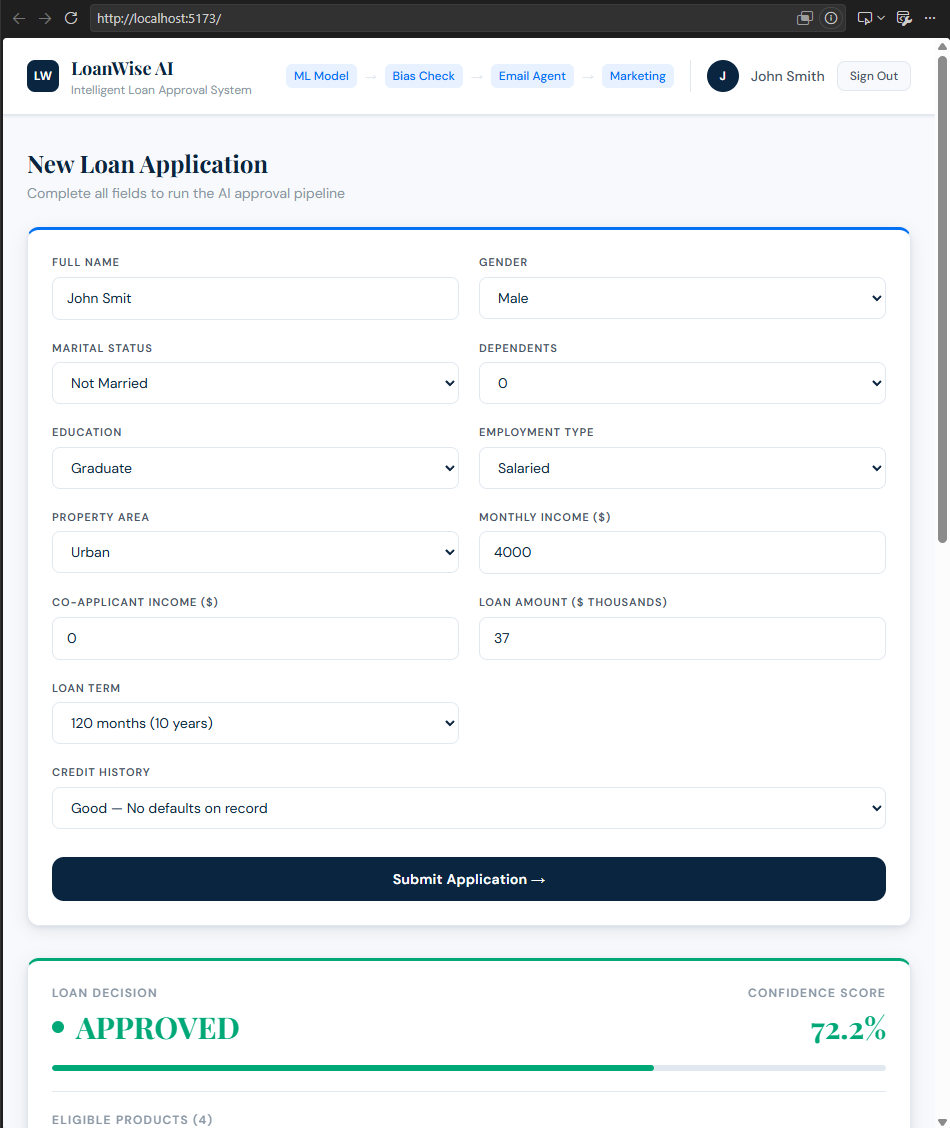
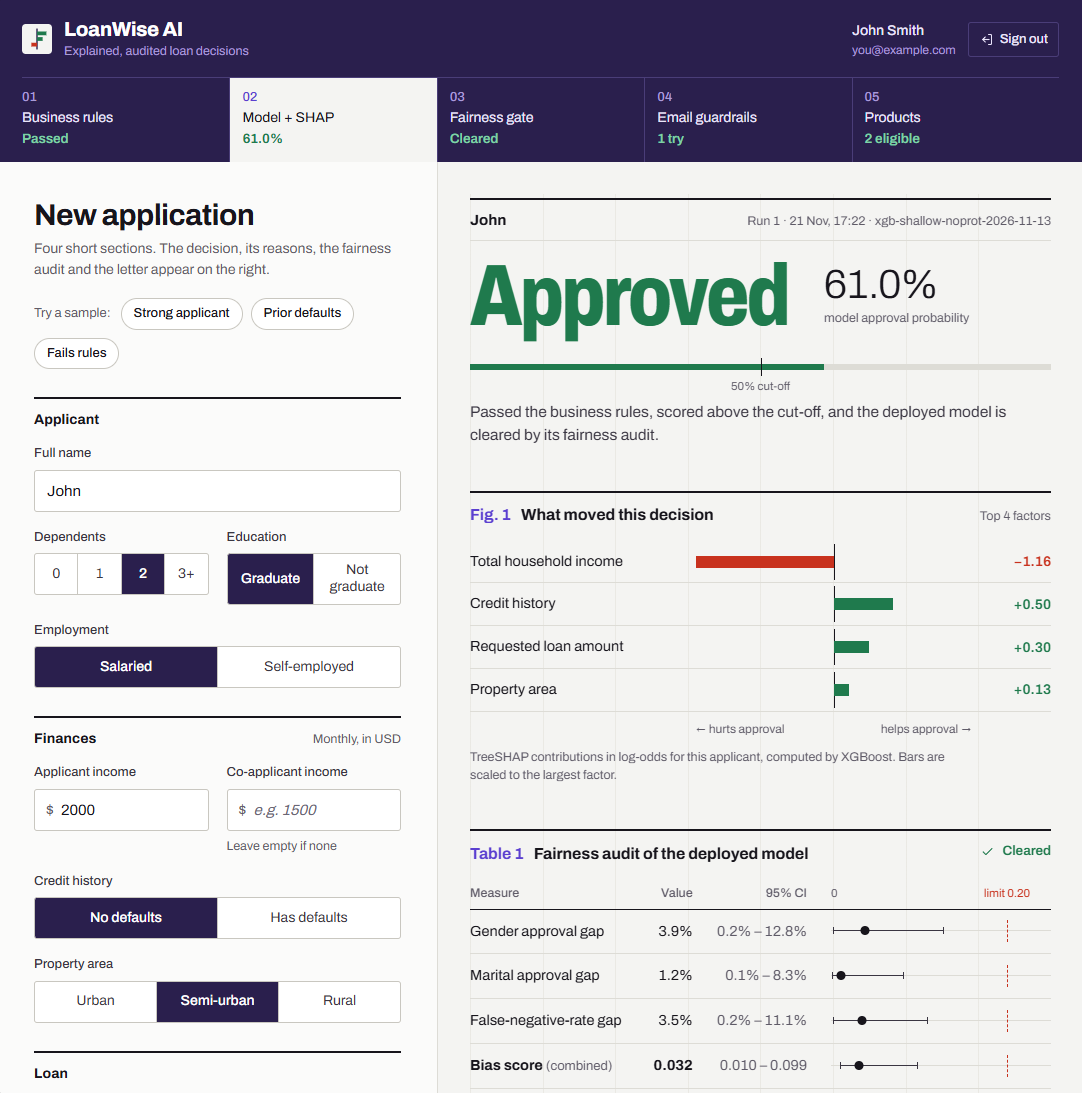
Update README and screenshots for the redesigned UI
Replace the old-UI screenshots with captures of the redesign running
against the live backend, describe the explainable interface, and update
the frontend project structure and roadmap.

diff --git a/README.md b/README.md
@@ -16,9 +16,11 @@
 ## Screenshots
 
 <p align="center">
-  <img src="docs/screenshots/application-and-decision.png" width="48%" alt="Loan application form with the approved decision, confidence score and eligible products" />
-  <img src="docs/screenshots/fairness-and-email.png" width="48%" alt="Fairness analysis report, generated decision email and personalized offers" />
+  <img src="docs/screenshots/application-and-decision.png" width="48%" alt="Pipeline strip with each stage's result, the grouped application form, and an approved verdict with its SHAP factors (Fig. 1) and the fairness audit (Table 1)" />
+  <img src="docs/screenshots/fairness-and-email.png" width="48%" alt="Live repayment-to-income check on the form, group approval rates, and the guardrail-checked decision letter with personalised offers" />
 </p>
+
+The interface presents each decision like a statistical release: the five pipeline stages are numbered and fill in with their results, the verdict leads, and the evidence follows as numbered exhibits (Fig. 1 SHAP factors, Table 1 fairness audit, Doc. 1 decision letter, Table 2 eligible products).
 
 ## Overview
 
@@ -27,6 +29,7 @@ A user signs in, submits a loan application, and the backend runs it through a m
 ## Features
 
 - **Full stack web app**: responsive React 19 + Vite + Tailwind CSS UI with email/password authentication (Supabase Auth, JWT-based sessions).
+- **Explainable interface**: a pipeline rail shows which stage passed, failed or was skipped (and the one that decided the outcome); SHAP factors are drawn as a diverging bar chart; the fairness audit shows each gap with its 95% CI against the limit; rule rejections show which business rule failed. One-click sample applicants, a live repayment-to-income check, and a model card (loaded from `/model`) before the first run. Design records live in [`PRODUCT.md`](PRODUCT.md) and [`DESIGN.md`](DESIGN.md).
 - **Typed REST API**: FastAPI with range-checked Pydantic validation and auto-generated OpenAPI docs at `/docs`.
 - **Secured API**: protected endpoints verify the user's Supabase JWT server-side, CORS is restricted to configured origins, `/predict` is rate-limited per IP, and LLM output is HTML-escaped before it is emailed.
 - **Rigorous model evaluation**: seven candidates, including majority-class and credit-history-rule baselines, compared with repeated stratified cross-validation. Preprocessing is fitted inside each fold to avoid leakage.
@@ -132,7 +135,12 @@ Every point estimate fell after the protected attributes were removed. The inter
 │   └── model_report.json      # CV metrics + fairness audit for the deployed model
 ├── tests/                     # pytest suite (no network access needed)
 ├── frontend/                  # React + Vite + Tailwind UI
-│   └── src/components/        # Login, LoanForm, DecisionCard, BiasReport, EmailPreview
+│   ├── src/index.css          # Design tokens and component styles
+│   ├── src/pipeline.js        # Maps an API response to the five pipeline stages
+│   ├── src/useModelReport.js  # Loads the public model card from /model
+│   └── src/components/        # PipelineRail, LoanForm, ResultPanel, DecisionCard,
+│                              # BiasReport, EmailPreview, Login, Icons
+├── PRODUCT.md, DESIGN.md      # Product context and the UI design system
 ├── notebooks/                 # 01–02 EDA/preprocessing, 03 original training (superseded),
 │                              # 04–06 agent development, 07 evaluation + final model
 ├── data/                      # Raw and processed datasets
@@ -277,6 +285,7 @@ This is a learning project, and these limitations are deliberate to state:
 - [x] Persist human-review and rule-rejected cases
 - [x] Per-applicant explanations (TreeSHAP) and a stronger evaluation protocol (repeated CV with baselines)
 - [x] Remove protected attributes from the model and audit on out-of-fold predictions
+- [x] UI redesign: pipeline rail, numbered exhibits, rule-rejection and human-review states, sample applicants
 - [ ] Vitest tests for the UI
 - [ ] Application history page (the `/applications` endpoint already exists)
 - [ ] Dockerfile and docker-compose for one-command setup
